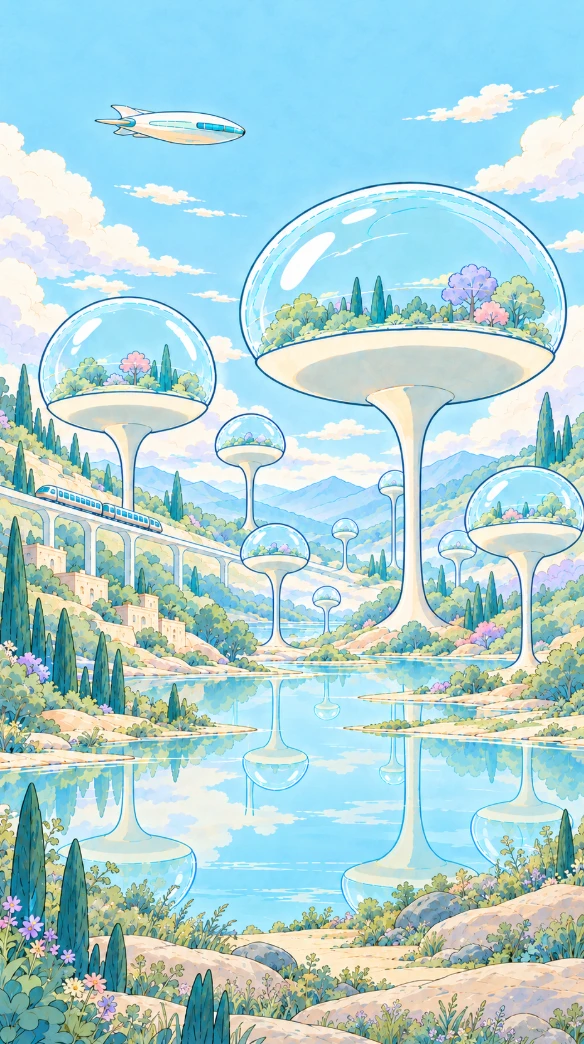
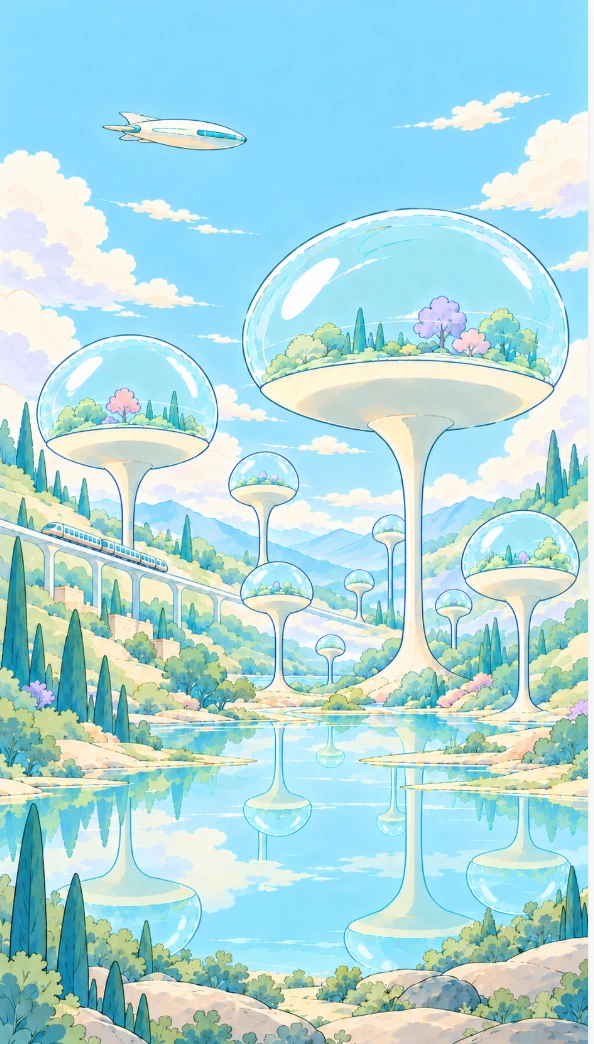
Phone hero picture: lighter touch matching the PC version

diff --git a/site/index.html b/site/index.html
@@ -34,7 +34,7 @@
 </header>
 <main id="main">
 <section class="hero">
-<div class="hero-bg"><picture><source media="(max-width: 820px)" srcset="images/hero_top_sp.webp?v=4" width="592" height="1050"><img src="images/hero_top.webp?v=168" alt="" width="2000" height="862" fetchpriority="high"></picture></div>
+<div class="hero-bg"><picture><source media="(max-width: 820px)" srcset="images/hero_top_sp.webp?v=5" width="594" height="1044"><img src="images/hero_top.webp?v=170" alt="" width="2000" height="862" fetchpriority="high"></picture></div>
 <div class="hero-intro" aria-hidden="true"><div class="hi-veil"></div><div class="hi-logo" data-capsule-intro><svg class="capsule-svg" overflow="visible" xmlns="http://www.w3.org/2000/svg" aria-label="CELLACT ロゴ" viewBox="118 55 1018 1010" role="img"><g id="head" fill="#6A6562" opacity="0"><path fill-rule="evenodd" d="M614.500 299.404C593.595 302.815 574.148 310.279 558.917 325.500C547.951 336.459 539.573 351.218 536.577 366.500C531.408 392.855 541.235 422.026 561.500 439.696C583.686 459.041 615.500 467.342 644.500 461.799C653.610 460.058 661.987 456.874 670.500 453.363C681.140 448.974 692.080 440.503 699.209 431.500C700.604 429.738 702.095 427.979 703.500 426.235C703.963 425.661 705.362 424.373 705.143 423.500C704.989 422.886 702.997 422.074 702.500 421.816C700.784 420.922 699.188 419.739 697.500 418.790C691.801 415.586 686.405 411.592 680.500 408.641C678.773 407.778 676.547 405.323 674.500 405.323C673.904 405.323 673.515 406.125 673.212 406.500C671.794 408.255 670.286 409.958 668.620 411.500C662.950 417.406 655.379 423.301 647.500 425.803C639.167 428.449 630.270 429.788 621.500 428.925C604.023 427.207 587.204 416.659 579.669 400.500C577.201 395.209 575.571 389.411 575.145 383.500C574.573 375.574 576.545 367.824 579.279 360.500C581.065 355.716 585.164 351.185 588.595 347.500C601.299 333.855 621.481 329.236 639.500 332.353C644.290 333.182 649.040 335.465 653.500 337.346C659.000 339.666 665.025 344.887 668.782 349.500C670.109 351.130 671.132 353.212 672.500 354.730C672.995 355.279 673.601 356.539 674.500 356.539C676.203 356.539 678.995 354.021 680.500 353.149C686.572 349.636 692.299 345.309 698.500 342.091C700.237 341.190 701.832 340.067 703.500 339.037C703.998 338.729 704.924 338.290 704.924 337.500C704.924 336.254 702.265 333.752 701.500 332.791C697.797 328.141 693.602 322.764 688.500 319.626C687.427 318.966 686.544 317.754 685.500 316.996C681.149 313.837 676.480 310.553 671.500 308.465C666.204 306.244 661.013 303.824 655.500 302.329C642.185 298.719 628.195 297.941 614.500 299.404Z" /></g><g id="plus" fill="#6A6562" opacity="0"><path fill-rule="evenodd" d="M606.500 480.461C605.179 481.799 606.020 486.700 605.988 488.500C605.886 494.163 606.003 499.836 605.979 505.500C605.969 507.863 606.637 511.304 605.726 513.500C605.436 514.200 603.985 513.661 603.500 513.657C601.517 513.640 599.496 513.684 597.500 513.698C590.832 513.746 584.167 513.687 577.500 513.736C575.728 513.748 572.080 512.980 570.500 513.679C568.798 514.432 569.682 519.915 569.683 521.500C569.689 528.166 569.630 534.834 569.655 541.500C569.662 543.578 568.971 546.856 570.288 548.500C570.606 548.896 572.067 548.665 572.500 548.657C574.835 548.614 577.161 548.647 579.500 548.621C585.832 548.550 592.168 548.520 598.500 548.560C600.218 548.571 603.996 548.027 605.500 548.814C606.100 549.128 605.982 550.019 605.985 550.500C605.995 552.499 606.027 554.500 606.039 556.500C606.073 562.167 605.996 567.833 605.996 573.500C605.996 575.774 605.343 579.401 606.199 581.500C606.478 582.186 607.984 582.004 608.500 582.003C610.833 581.998 613.167 582.045 615.500 582.016C622.837 581.927 630.164 582.014 637.500 581.984C639.532 581.975 644.366 582.825 645.920 581.500C647.156 573.465 645.955 564.639 646.029 556.500C646.048 554.505 646.138 552.492 646.099 550.500C646.087 549.882 645.727 549.180 646.500 548.761C646.654 548.678 648.342 548.684 648.500 548.683C650.501 548.664 652.499 548.559 654.500 548.543C661.165 548.489 667.836 548.628 674.500 548.586C676.230 548.576 682.456 549.632 683.040 547.500C683.658 545.242 683.028 541.863 683.039 539.500C683.067 533.500 683.029 527.500 683.039 521.500C683.041 519.828 683.030 518.163 683.002 516.500C682.989 515.756 683.417 514.387 682.500 513.937C681.718 513.554 680.345 513.794 679.500 513.771C677.167 513.708 674.833 513.797 672.500 513.788C667.167 513.767 661.833 513.750 656.500 513.774C653.249 513.789 649.715 514.145 646.500 513.689C646.081 513.630 646.103 512.920 646.052 512.500C645.822 510.600 646.077 508.426 646.084 506.500C646.111 499.843 646.307 493.154 646.127 486.500C646.097 485.399 646.668 481.124 645.500 480.511C645.202 480.355 642.968 480.693 642.500 480.688C640.166 480.662 637.835 480.621 635.500 480.621C629.170 480.621 622.829 480.543 616.500 480.633C613.287 480.678 609.645 481.155 606.500 480.461Z" /></g><g id="legs" fill="#6A6562" opacity="0"><path fill-rule="evenodd" d="M625.500 593.040C622.872 595.637 620.696 599.368 618.761 602.500C614.608 609.224 609.338 615.812 604.500 622.092C584.744 647.733 567.482 675.273 547.500 700.727C540.717 709.369 534.301 718.476 528.038 727.500C526.403 729.855 524.760 732.219 523.023 734.500C522.226 735.546 521.298 736.124 521.441 737.500C521.501 738.073 523.275 737.875 523.500 737.861C525.813 737.714 528.176 737.837 530.500 737.833C539.834 737.818 549.167 737.811 558.500 737.777C561.642 737.766 565.427 738.357 568.500 737.721C570.234 737.362 572.340 732.916 573.262 731.500C576.607 726.361 580.565 721.515 584.114 716.500C590.461 707.533 597.834 698.939 603.428 689.500C605.735 685.608 609.219 682.329 611.648 678.500C613.339 675.836 616.203 673.259 617.571 670.500C619.100 667.419 621.337 664.360 623.500 661.720C623.713 661.407 625.008 658.998 625.500 658.998C626.264 658.998 627.202 660.930 627.500 661.376C628.829 663.368 630.109 665.420 631.500 667.382C637.340 675.620 642.637 684.209 648.500 692.420C656.367 703.437 663.894 714.617 671.500 725.754C673.240 728.302 675.152 730.860 676.748 733.500C677.390 734.563 678.515 736.984 679.682 737.500C681.596 738.345 684.417 737.849 686.500 737.858C692.167 737.885 697.834 737.776 703.500 737.804C708.828 737.830 714.174 738.020 719.500 737.837C720.541 737.801 724.465 738.374 725.080 737.500C726.044 736.129 725.012 736.559 724.391 735.500C723.185 733.443 721.555 731.598 720.415 729.500C718.480 725.939 715.276 723.030 713.357 719.500C710.683 714.582 706.899 710.236 703.901 705.500C699.347 698.303 693.828 691.668 689.249 684.500C675.102 662.354 658.686 641.585 644.391 619.500C640.033 612.767 635.499 606.118 630.943 599.500C629.727 597.734 627.688 593.058 625.500 593.040Z" /></g><g id="wordmark" fill="#6A6562" opacity="0"><path fill-rule="evenodd" d="M187.500 932.328C180.629 933.749 173.926 935.493 167.563 938.500C162.797 940.752 158.711 944.203 154.654 947.500C133.298 964.856 132.627 1001.721 151.500 1020.906C169.523 1039.227 197.986 1043.474 221.500 1034.127C228.246 1031.445 233.858 1027.561 238.979 1022.500C239.859 1021.631 242.124 1019.797 242.330 1018.500C242.513 1017.347 240.354 1016.095 239.591 1015.500C236.534 1013.113 233.504 1010.682 230.500 1008.227C229.617 1007.506 227.609 1005.265 226.500 1005.801C225.441 1006.313 224.346 1008.109 223.500 1008.944C221.976 1010.449 220.267 1011.941 218.500 1013.147C214.833 1016.469 210.071 1017.840 205.500 1019.146C189.737 1023.649 168.938 1015.826 163.164 999.500C160.486 991.928 159.547 984.477 161.394 976.500C162.044 973.691 163.424 971.180 164.391 968.500C165.379 965.760 167.912 963.588 169.500 961.323C171.393 958.624 174.658 956.480 177.500 954.927C188.945 948.671 201.741 948.518 213.500 954.112C216.856 955.709 221.270 958.483 223.566 961.500C224.207 962.343 226.232 965.578 227.500 965.298C228.440 965.091 229.767 963.384 230.500 962.765C233.422 960.299 236.442 957.946 239.387 955.500C240.073 954.930 242.588 953.559 242.588 952.500C242.588 951.834 240.952 950.413 240.500 949.947C237.993 947.369 235.759 944.205 232.500 942.510C228.759 940.566 225.508 937.679 221.500 936.005C211.082 931.655 198.566 931.123 187.500 932.328ZM908.500 932.399C897.802 934.024 888.205 937.386 879.500 943.869C877.120 945.642 873.842 948.026 872.171 950.500C868.827 955.449 865.252 959.879 863.076 965.500C855.805 984.280 858.646 1008.301 873.500 1022.760C891.649 1040.426 922.310 1043.750 944.976 1033.500C951.046 1030.755 956.730 1027.487 961.500 1022.762C962.454 1021.817 965.331 1019.843 965.610 1018.500C965.969 1016.769 963.713 1015.909 962.500 1014.944C959.720 1012.734 956.832 1010.664 954.030 1008.500C953.055 1007.746 951.688 1006.088 950.500 1005.734C949.429 1005.415 948.504 1006.864 947.861 1007.500C945.852 1009.483 943.734 1011.286 941.500 1012.994C929.378 1022.264 908.953 1023.487 896.500 1014.067C891.829 1010.534 888.554 1006.615 885.789 1001.500C884.265 998.681 882.801 994.691 882.494 991.500C881.531 981.486 883.430 973.163 888.500 964.585C890.230 961.657 893.168 959.780 895.500 957.444C898.411 954.528 902.645 953.084 906.500 951.833C916.216 948.680 927.199 949.672 936.217 954.500C939.271 956.135 942.255 958.166 944.798 960.500C946.370 961.943 947.741 964.150 949.500 965.335C950.737 966.169 952.598 963.963 953.500 963.290C956.913 960.744 960.207 958.056 963.500 955.367C964.100 954.877 966.376 953.440 966.304 952.500C966.255 951.855 963.971 950.056 963.500 949.584C960.848 946.927 958.054 944.674 954.989 942.500C941.787 933.135 924.373 930.218 908.500 932.399ZM306.500 934.500C306.500 934.500 305.347 934.984 305.313 935.500C305.270 936.166 305.407 936.833 305.402 937.500C305.382 940.166 305.356 942.835 305.369 945.500C305.407 953.167 305.330 960.834 305.371 968.500C305.456 984.500 305.307 1000.501 305.393 1016.500C305.427 1022.743 304.806 1029.320 305.287 1035.500C305.355 1036.380 306.937 1036.447 307.500 1036.458C309.493 1036.498 311.504 1036.395 313.500 1036.395C322.167 1036.395 330.833 1036.389 339.500 1036.389C352.500 1036.389 365.500 1036.378 378.500 1036.378C381.834 1036.378 385.166 1036.408 388.500 1036.459C389.478 1036.474 391.658 1036.943 392.500 1036.239C393.381 1035.502 392.872 1033.451 392.842 1032.500C392.728 1028.836 392.931 1025.163 392.862 1021.500C392.840 1020.332 393.124 1018.496 391.500 1018.317C386.300 1017.744 380.732 1018.275 375.500 1018.307C365.501 1018.369 355.499 1018.234 345.500 1018.234C341.503 1018.234 337.500 1018.406 333.500 1018.355C332.240 1018.339 329.624 1018.795 328.500 1018.285C327.017 1017.612 327.613 1014.755 327.599 1013.500C327.543 1008.501 327.596 1003.498 327.641 998.500C327.652 997.215 327.043 994.327 328.500 993.630C329.590 993.109 332.278 993.592 333.500 993.619C336.494 993.686 339.502 993.594 342.500 993.629C356.704 993.629 371.346 994.649 385.500 993.519C386.469 993.441 386.033 990.065 386.031 989.500C386.017 986.165 385.994 982.831 386.031 979.500C386.039 978.719 386.533 976.451 385.500 976.052C384.430 975.637 382.637 975.989 381.500 975.995C378.499 976.010 375.500 976.067 372.500 976.067C362.167 976.067 351.833 976.031 341.500 976.060C338.167 976.070 334.832 976.182 331.500 976.133C330.492 976.118 328.244 976.603 327.645 975.500C327.201 974.683 327.611 972.440 327.604 971.500C327.583 968.498 327.621 965.501 327.665 962.500C327.694 960.505 327.790 958.494 327.738 956.500C327.716 955.682 327.380 954.278 327.711 953.500C328.361 951.977 330.148 952.601 331.500 952.557C335.497 952.426 339.500 952.468 343.500 952.424C354.833 952.301 366.168 952.478 377.500 952.478C380.834 952.478 384.166 952.446 387.500 952.442C388.519 952.441 390.578 952.837 391.500 952.441C393.141 951.735 392.578 949.909 392.583 948.500C392.594 945.500 392.596 942.500 392.596 939.500C392.596 938.573 393.008 936.295 392.482 935.500C391.231 933.606 388.556 934.452 386.500 934.417C381.498 934.332 376.501 934.414 371.500 934.414C349.921 934.414 328.020 933.367 306.500 934.500ZM456.500 934.445C455.420 935.461 455.967 938.157 455.964 939.500C455.954 944.500 455.900 949.499 455.909 954.500C455.943 974.167 455.920 993.833 455.920 1013.500C455.920 1019.167 455.874 1024.833 455.888 1030.500C455.891 1031.730 455.290 1035.623 456.500 1036.330C457.739 1037.053 461.068 1036.381 462.500 1036.382C467.165 1036.386 471.834 1036.409 476.500 1036.409C494.457 1036.409 512.571 1035.787 530.500 1036.504C531.308 1036.343 531.841 1036.414 532.228 1035.500C532.630 1034.553 532.221 1032.543 532.236 1031.500C532.278 1028.521 532.413 1025.474 532.270 1022.500C532.207 1021.184 532.805 1018.430 531.500 1017.718C530.648 1017.254 529.402 1017.649 528.500 1017.639C525.837 1017.608 523.166 1017.607 520.500 1017.580C510.500 1017.476 500.500 1017.568 490.500 1017.517C487.833 1017.504 485.169 1017.608 482.500 1017.581C481.250 1017.569 479.585 1017.849 478.500 1017.023C477.605 1016.342 478.195 1012.556 478.195 1011.500C478.195 1006.167 478.178 1000.833 478.178 995.500C478.178 980.500 478.197 965.500 478.178 950.500C478.173 946.833 478.174 943.167 478.184 939.500C478.188 937.882 478.657 935.827 477.704 934.500C477.264 933.887 473.306 934.351 472.500 934.331C467.190 934.203 461.814 934.382 456.500 934.445ZM591.500 934.303C589.418 935.508 590.257 938.376 590.278 940.500C590.331 945.832 590.244 951.167 590.267 956.500C590.351 976.498 590.076 996.504 590.275 1016.500C590.325 1021.501 590.057 1026.500 590.230 1031.500C590.263 1032.431 589.755 1035.341 590.500 1035.934C591.692 1036.884 593.058 1036.377 594.500 1036.384C597.500 1036.399 600.500 1036.428 603.500 1036.427C615.499 1036.423 627.501 1036.352 639.500 1036.409C645.166 1036.436 650.834 1036.449 656.500 1036.451C658.167 1036.452 659.833 1036.451 661.500 1036.430C662.500 1036.417 664.500 1036.500 664.500 1036.500C664.500 1036.500 665.657 1036.027 665.766 1035.500C665.970 1034.522 665.611 1033.506 665.709 1032.500C666.030 1029.192 665.607 1025.800 665.724 1022.500C665.768 1021.247 666.688 1017.469 664.500 1017.469C651.506 1017.469 638.500 1017.595 625.500 1017.528C622.500 1017.512 619.500 1017.569 616.500 1017.552C615.053 1017.543 613.350 1018.230 612.864 1016.500C612.372 1014.752 612.742 1012.313 612.740 1010.500C612.734 1006.167 612.776 1001.833 612.776 997.500C612.776 983.500 612.810 969.500 612.810 955.500C612.810 950.500 612.760 945.500 612.760 940.500C612.760 939.282 613.384 935.717 612.500 934.879C611.300 933.742 608.034 934.296 606.500 934.302C601.561 934.324 596.412 934.829 591.500 934.303ZM756.500 934.440C752.311 939.840 748.638 945.832 744.733 951.500C730.796 971.728 717.186 992.388 702.500 1012.081C698.118 1017.957 693.564 1024.220 689.796 1030.500C688.849 1032.078 685.415 1034.779 687.122 1036.500C687.544 1036.925 691.136 1036.491 691.833 1036.500C696.713 1036.562 701.614 1036.403 706.500 1036.431C708.166 1036.440 709.834 1036.449 711.500 1036.479C711.904 1036.486 712.319 1036.837 712.633 1036.500C716.878 1031.957 720.017 1025.971 723.500 1020.808C728.450 1013.471 734.045 1006.324 738.500 998.700C739.968 996.188 742.206 994.030 743.566 991.500C745.082 988.679 747.168 986.148 748.961 983.500C751.439 979.840 753.590 975.631 756.500 972.320C758.051 972.019 758.870 974.199 759.711 975.500C762.104 979.207 764.553 982.876 767.054 986.500C775.775 999.134 784.176 1011.922 792.944 1024.500C794.786 1027.143 796.593 1029.823 798.395 1032.500C798.982 1033.372 799.634 1035.293 800.500 1035.893C801.721 1036.739 802.204 1036.421 803.500 1036.358C809.449 1036.067 815.532 1036.457 821.500 1036.479C823.169 1036.485 824.836 1036.414 826.500 1036.428C826.856 1036.431 827.411 1036.821 827.567 1036.500C828.244 1035.105 826.849 1033.753 825.976 1032.500C823.547 1029.015 820.814 1025.681 818.500 1022.125C812.020 1012.168 804.376 1002.854 798.629 992.500C796.066 987.881 791.866 984.075 789.199 979.500C784.521 971.473 778.346 964.266 773.242 956.500C770.491 952.314 767.910 947.425 764.500 943.776C762.488 941.623 761.446 938.562 759.500 936.327C758.474 935.149 758.116 933.625 756.500 934.440ZM1017.500 934.360C1015.477 934.836 1016.150 936.786 1016.150 938.500C1016.152 941.835 1016.071 945.166 1016.109 948.500C1016.119 949.380 1015.621 951.833 1016.500 952.429C1016.672 952.545 1018.262 952.499 1018.500 952.504C1020.501 952.553 1022.499 952.535 1024.500 952.543C1031.500 952.570 1038.501 952.731 1045.500 952.564C1047.518 952.516 1049.489 952.583 1051.500 952.620C1052.538 952.639 1053.652 952.088 1053.957 953.500C1054.343 955.289 1053.903 957.649 1053.915 959.500C1053.944 964.167 1053.872 968.833 1053.872 973.500C1053.872 987.833 1053.890 1002.167 1053.890 1016.500C1053.890 1020.834 1053.833 1025.166 1053.833 1029.500C1053.833 1031.214 1053.393 1033.882 1053.893 1035.500C1054.393 1037.122 1057.207 1036.455 1058.500 1036.469C1062.823 1036.514 1067.182 1036.224 1071.500 1036.429C1072.802 1036.491 1075.556 1037.212 1076.056 1035.500C1076.951 1032.434 1076.053 1027.721 1076.075 1024.500C1076.133 1016.168 1076.100 1007.833 1076.071 999.500C1076.071 987.500 1076.005 975.499 1076.075 963.500C1076.090 960.833 1076.120 958.165 1076.123 955.500C1076.124 954.843 1075.733 953.133 1076.500 952.684C1076.599 952.626 1078.402 952.718 1078.500 952.716C1080.498 952.685 1082.500 952.576 1084.500 952.539C1091.503 952.409 1098.497 952.567 1105.500 952.567C1107.832 952.567 1110.169 952.519 1112.500 952.567C1113.622 952.590 1114.805 952.793 1115.361 951.500C1115.746 950.606 1115.310 948.502 1115.323 947.500C1115.362 944.501 1115.338 941.500 1115.362 938.500C1115.369 937.743 1115.923 934.470 1114.500 934.447C1094.867 934.119 1075.155 934.402 1055.500 934.402C1042.873 934.402 1030.104 933.878 1017.500 934.360Z" /></g><defs><clipPath id="clip_top"><rect x="0" y="0" width="1254" height="533.5" /></clipPath><clipPath id="clip_bottom"><rect x="0" y="533.5" width="1254" height="800" /></clipPath></defs><g id="shell_top" transform="translate(0 -66)" opacity="0"><g clip-path="url(#clip_top)"><g fill="#6A6562"><path fill-rule="evenodd" d="M623.500 153.449C606.954 162.665 591.012 173.033 574.500 182.304C568.395 185.732 562.643 189.802 556.500 193.127C547.242 198.137 538.777 204.347 529.500 209.300C526.052 211.141 522.999 213.936 519.500 215.633C509.793 220.340 500.942 227.023 491.500 232.253C476.906 240.337 463.152 250.124 448.500 258.198C445.415 259.898 442.576 262.204 439.500 263.885C423.505 272.627 408.291 282.855 392.500 291.885C389.418 293.648 386.607 295.950 383.500 297.657C369.884 305.138 357.136 314.360 343.500 321.932C336.495 325.822 329.244 329.902 322.669 334.500C318.628 337.327 313.827 340.325 309.394 342.500C306.543 343.899 303.930 345.372 302.798 348.500C301.783 351.305 302.322 354.556 302.322 357.500C302.322 362.833 302.324 368.167 302.324 373.500C302.324 392.833 302.404 412.169 302.404 431.500C302.404 496.165 302.372 560.833 302.372 625.500C302.372 646.833 302.362 668.166 302.362 689.500C302.362 694.833 302.353 700.167 302.381 705.500C302.398 708.804 302.023 711.647 303.909 714.500C305.067 716.251 307.710 717.302 309.500 718.238C312.279 719.690 314.774 721.740 317.500 723.312C328.962 729.923 339.649 738.333 351.500 744.271C356.721 746.887 361.415 750.976 366.500 753.868C380.130 761.621 393.081 770.601 406.500 778.750C423.313 788.959 439.778 799.682 456.500 810.021C466.812 816.397 477.323 822.593 487.500 829.183C497.072 835.381 506.669 841.466 516.500 847.239C525.297 852.404 533.604 858.416 542.500 863.407C558.889 872.602 573.965 884.230 590.500 893.277C598.712 897.769 606.388 903.443 614.500 908.170C619.782 911.249 623.987 914.424 630.500 912.994C633.119 912.200 635.174 910.547 637.500 909.146C641.483 906.746 645.631 904.524 649.500 901.951C651.645 900.524 654.110 898.454 656.500 897.497C658.301 896.775 659.794 895.345 661.500 894.398C666.960 891.369 671.970 887.329 677.500 884.471C687.430 879.338 697.215 872.830 706.500 866.563C715.830 860.265 725.801 854.567 735.500 848.771C745.283 842.924 754.558 836.238 764.500 830.633C774.433 825.032 783.495 817.769 793.500 812.290C802.742 807.228 811.186 800.691 820.500 795.758C822.258 794.827 823.734 793.275 825.500 792.363C831.070 789.488 836.022 785.439 841.500 782.474C851.137 777.258 860.205 770.848 869.500 765.115C882.159 757.307 894.573 748.873 907.500 741.551C914.575 737.544 921.128 731.739 928.500 728.341C933.096 726.222 937.039 722.689 941.500 720.288C944.555 718.644 949.072 716.762 950.731 713.500C952.135 710.738 951.618 707.537 951.633 704.500C951.663 698.837 951.662 693.163 951.602 687.500C951.377 666.507 951.633 645.494 951.633 624.500C951.633 559.499 951.653 494.500 951.653 429.500C951.653 410.835 951.653 392.167 951.653 373.500C951.653 368.167 951.617 362.833 951.643 357.500C951.660 354.061 951.991 350.739 950.629 347.500C949.727 345.353 947.740 344.798 946.129 343.500C943.868 341.680 941.007 340.436 938.500 338.897C931.542 334.626 924.625 330.071 917.500 326.115C913.193 323.724 908.470 321.193 904.500 318.368C891.849 309.366 877.619 302.508 864.500 294.233C859.238 290.915 854.009 287.389 848.500 284.500C845.756 283.061 843.307 280.986 840.500 279.737C837.619 278.454 834.797 276.148 832.072 274.500C825.597 270.583 819.187 266.335 812.500 262.809C798.791 255.582 786.263 245.916 772.500 238.762C768.374 236.617 764.803 233.440 760.500 231.633C757.634 230.430 755.337 227.670 752.500 226.378C746.507 223.650 741.171 219.379 735.500 216.106C726.820 211.096 718.337 205.467 709.500 200.768C705.385 198.579 701.692 195.636 697.500 193.554C691.706 190.677 686.515 186.265 680.593 183.500C674.322 180.572 668.643 175.890 662.500 172.650C655.030 168.710 648.170 163.526 640.715 159.500C637.701 157.872 634.755 155.140 631.500 154.032C628.844 153.127 626.226 153.466 623.500 153.449ZM626.500 198.064C628.991 198.202 631.427 200.569 633.500 201.830C636.801 203.838 640.099 205.913 643.500 207.761C659.269 216.329 673.932 226.842 689.500 235.754C699.959 241.742 709.914 248.908 720.500 254.629C734.185 262.025 746.979 271.024 760.500 278.765C788.881 295.016 816.290 313.013 844.500 329.504C855.932 336.188 867.027 343.477 878.500 350.109C883.847 353.201 889.003 356.988 894.500 359.805C898.329 361.767 902.283 364.097 905.857 366.500C906.531 366.954 909.267 368.077 909.500 368.724C909.958 369.996 909.739 371.186 909.778 372.500C909.888 376.163 909.728 379.831 909.767 383.500C909.899 395.831 909.823 408.168 909.823 420.500C909.823 461.485 909.195 502.522 909.810 543.500C910.370 580.823 909.522 618.171 909.810 655.500C909.882 664.834 909.774 674.166 909.846 683.500C909.864 685.832 909.959 688.203 909.788 690.500C909.751 691.001 909.940 692.097 909.418 692.500C903.139 697.355 895.400 701.389 888.500 705.234C874.801 712.866 862.373 722.827 848.500 730.176C843.286 732.939 838.759 737.013 833.500 739.719C827.953 742.572 822.830 746.442 817.500 749.712C804.768 757.522 792.401 765.960 779.500 773.532C774.259 776.609 768.758 779.839 763.900 783.500C756.966 788.725 748.702 792.299 741.700 797.500C736.737 801.187 730.596 803.555 725.833 807.500C724.062 808.967 721.502 810.102 719.500 811.301C714.788 814.122 710.143 817.128 705.500 820.051C694.197 827.167 683.001 834.377 671.500 841.193C668.128 843.192 664.983 846.058 661.500 847.728C655.167 850.766 649.574 855.379 643.500 858.900C638.121 862.018 632.463 865.341 627.500 869.039C624.645 869.100 620.896 865.530 618.500 864.014C612.906 860.472 607.334 856.810 601.500 853.639C599.762 852.695 598.267 851.183 596.500 850.270C586.384 845.042 577.309 837.929 567.500 832.195C549.544 821.698 531.926 810.458 514.500 799.098C503.316 791.806 491.913 784.768 480.500 777.797C472.747 773.061 465.324 767.732 457.500 763.194C450.091 758.896 442.409 754.341 435.357 749.500C428.321 744.670 420.992 739.784 413.500 735.689C409.336 733.413 405.645 730.265 401.500 727.949C392.433 722.885 383.878 716.814 374.932 711.500C371.095 709.221 367.503 706.173 363.500 704.208C359.156 702.077 355.043 699.169 350.956 696.500C348.870 695.138 346.536 694.123 344.630 692.500C343.772 691.769 344.289 689.503 344.273 688.500C344.199 683.835 344.230 679.166 344.230 674.500C344.230 655.833 344.236 637.167 344.236 618.500C344.236 558.500 344.202 498.500 344.202 438.500C344.202 421.833 344.175 405.166 344.175 388.500C344.175 383.835 344.156 379.163 344.193 374.500C344.205 372.924 343.740 370.454 344.500 369.039C345.420 367.326 348.409 366.524 349.989 365.500C355.070 362.206 360.283 359.083 365.500 356.025C383.965 345.201 402.415 334.218 420.500 322.774C443.219 308.397 466.930 295.705 489.500 280.993C496.615 276.355 504.051 271.872 511.500 267.715C514.891 265.822 518.024 263.455 521.500 261.731C526.723 259.141 531.206 255.079 536.500 252.622C539.249 251.346 541.922 249.244 544.500 247.626C551.055 243.514 557.710 239.120 564.500 235.459C569.603 232.708 574.296 228.863 579.500 226.335C585.149 223.591 590.108 219.476 595.640 216.500C606.168 210.837 616.110 203.898 626.500 198.064Z" /></g></g></g><g id="shell_bottom" transform="translate(0 66)" opacity="0"><g clip-path="url(#clip_bottom)"><g fill="#6A6562"><path fill-rule="evenodd" d="M623.500 153.449C606.954 162.665 591.012 173.033 574.500 182.304C568.395 185.732 562.643 189.802 556.500 193.127C547.242 198.137 538.777 204.347 529.500 209.300C526.052 211.141 522.999 213.936 519.500 215.633C509.793 220.340 500.942 227.023 491.500 232.253C476.906 240.337 463.152 250.124 448.500 258.198C445.415 259.898 442.576 262.204 439.500 263.885C423.505 272.627 408.291 282.855 392.500 291.885C389.418 293.648 386.607 295.950 383.500 297.657C369.884 305.138 357.136 314.360 343.500 321.932C336.495 325.822 329.244 329.902 322.669 334.500C318.628 337.327 313.827 340.325 309.394 342.500C306.543 343.899 303.930 345.372 302.798 348.500C301.783 351.305 302.322 354.556 302.322 357.500C302.322 362.833 302.324 368.167 302.324 373.500C302.324 392.833 302.404 412.169 302.404 431.500C302.404 496.165 302.372 560.833 302.372 625.500C302.372 646.833 302.362 668.166 302.362 689.500C302.362 694.833 302.353 700.167 302.381 705.500C302.398 708.804 302.023 711.647 303.909 714.500C305.067 716.251 307.710 717.302 309.500 718.238C312.279 719.690 314.774 721.740 317.500 723.312C328.962 729.923 339.649 738.333 351.500 744.271C356.721 746.887 361.415 750.976 366.500 753.868C380.130 761.621 393.081 770.601 406.500 778.750C423.313 788.959 439.778 799.682 456.500 810.021C466.812 816.397 477.323 822.593 487.500 829.183C497.072 835.381 506.669 841.466 516.500 847.239C525.297 852.404 533.604 858.416 542.500 863.407C558.889 872.602 573.965 884.230 590.500 893.277C598.712 897.769 606.388 903.443 614.500 908.170C619.782 911.249 623.987 914.424 630.500 912.994C633.119 912.200 635.174 910.547 637.500 909.146C641.483 906.746 645.631 904.524 649.500 901.951C651.645 900.524 654.110 898.454 656.500 897.497C658.301 896.775 659.794 895.345 661.500 894.398C666.960 891.369 671.970 887.329 677.500 884.471C687.430 879.338 697.215 872.830 706.500 866.563C715.830 860.265 725.801 854.567 735.500 848.771C745.283 842.924 754.558 836.238 764.500 830.633C774.433 825.032 783.495 817.769 793.500 812.290C802.742 807.228 811.186 800.691 820.500 795.758C822.258 794.827 823.734 793.275 825.500 792.363C831.070 789.488 836.022 785.439 841.500 782.474C851.137 777.258 860.205 770.848 869.500 765.115C882.159 757.307 894.573 748.873 907.500 741.551C914.575 737.544 921.128 731.739 928.500 728.341C933.096 726.222 937.039 722.689 941.500 720.288C944.555 718.644 949.072 716.762 950.731 713.500C952.135 710.738 951.618 707.537 951.633 704.500C951.663 698.837 951.662 693.163 951.602 687.500C951.377 666.507 951.633 645.494 951.633 624.500C951.633 559.499 951.653 494.500 951.653 429.500C951.653 410.835 951.653 392.167 951.653 373.500C951.653 368.167 951.617 362.833 951.643 357.500C951.660 354.061 951.991 350.739 950.629 347.500C949.727 345.353 947.740 344.798 946.129 343.500C943.868 341.680 941.007 340.436 938.500 338.897C931.542 334.626 924.625 330.071 917.500 326.115C913.193 323.724 908.470 321.193 904.500 318.368C891.849 309.366 877.619 302.508 864.500 294.233C859.238 290.915 854.009 287.389 848.500 284.500C845.756 283.061 843.307 280.986 840.500 279.737C837.619 278.454 834.797 276.148 832.072 274.500C825.597 270.583 819.187 266.335 812.500 262.809C798.791 255.582 786.263 245.916 772.500 238.762C768.374 236.617 764.803 233.440 760.500 231.633C757.634 230.430 755.337 227.670 752.500 226.378C746.507 223.650 741.171 219.379 735.500 216.106C726.820 211.096 718.337 205.467 709.500 200.768C705.385 198.579 701.692 195.636 697.500 193.554C691.706 190.677 686.515 186.265 680.593 183.500C674.322 180.572 668.643 175.890 662.500 172.650C655.030 168.710 648.170 163.526 640.715 159.500C637.701 157.872 634.755 155.140 631.500 154.032C628.844 153.127 626.226 153.466 623.500 153.449ZM626.500 198.064C628.991 198.202 631.427 200.569 633.500 201.830C636.801 203.838 640.099 205.913 643.500 207.761C659.269 216.329 673.932 226.842 689.500 235.754C699.959 241.742 709.914 248.908 720.500 254.629C734.185 262.025 746.979 271.024 760.500 278.765C788.881 295.016 816.290 313.013 844.500 329.504C855.932 336.188 867.027 343.477 878.500 350.109C883.847 353.201 889.003 356.988 894.500 359.805C898.329 361.767 902.283 364.097 905.857 366.500C906.531 366.954 909.267 368.077 909.500 368.724C909.958 369.996 909.739 371.186 909.778 372.500C909.888 376.163 909.728 379.831 909.767 383.500C909.899 395.831 909.823 408.168 909.823 420.500C909.823 461.485 909.195 502.522 909.810 543.500C910.370 580.823 909.522 618.171 909.810 655.500C909.882 664.834 909.774 674.166 909.846 683.500C909.864 685.832 909.959 688.203 909.788 690.500C909.751 691.001 909.940 692.097 909.418 692.500C903.139 697.355 895.400 701.389 888.500 705.234C874.801 712.866 862.373 722.827 848.500 730.176C843.286 732.939 838.759 737.013 833.500 739.719C827.953 742.572 822.830 746.442 817.500 749.712C804.768 757.522 792.401 765.960 779.500 773.532C774.259 776.609 768.758 779.839 763.900 783.500C756.966 788.725 748.702 792.299 741.700 797.500C736.737 801.187 730.596 803.555 725.833 807.500C724.062 808.967 721.502 810.102 719.500 811.301C714.788 814.122 710.143 817.128 705.500 820.051C694.197 827.167 683.001 834.377 671.500 841.193C668.128 843.192 664.983 846.058 661.500 847.728C655.167 850.766 649.574 855.379 643.500 858.900C638.121 862.018 632.463 865.341 627.500 869.039C624.645 869.100 620.896 865.530 618.500 864.014C612.906 860.472 607.334 856.810 601.500 853.639C599.762 852.695 598.267 851.183 596.500 850.270C586.384 845.042 577.309 837.929 567.500 832.195C549.544 821.698 531.926 810.458 514.500 799.098C503.316 791.806 491.913 784.768 480.500 777.797C472.747 773.061 465.324 767.732 457.500 763.194C450.091 758.896 442.409 754.341 435.357 749.500C428.321 744.670 420.992 739.784 413.500 735.689C409.336 733.413 405.645 730.265 401.500 727.949C392.433 722.885 383.878 716.814 374.932 711.500C371.095 709.221 367.503 706.173 363.500 704.208C359.156 702.077 355.043 699.169 350.956 696.500C348.870 695.138 346.536 694.123 344.630 692.500C343.772 691.769 344.289 689.503 344.273 688.500C344.199 683.835 344.230 679.166 344.230 674.500C344.230 655.833 344.236 637.167 344.236 618.500C344.236 558.500 344.202 498.500 344.202 438.500C344.202 421.833 344.175 405.166 344.175 388.500C344.175 383.835 344.156 379.163 344.193 374.500C344.205 372.924 343.740 370.454 344.500 369.039C345.420 367.326 348.409 366.524 349.989 365.500C355.070 362.206 360.283 359.083 365.500 356.025C383.965 345.201 402.415 334.218 420.500 322.774C443.219 308.397 466.930 295.705 489.500 280.993C496.615 276.355 504.051 271.872 511.500 267.715C514.891 265.822 518.024 263.455 521.500 261.731C526.723 259.141 531.206 255.079 536.500 252.622C539.249 251.346 541.922 249.244 544.500 247.626C551.055 243.514 557.710 239.120 564.500 235.459C569.603 232.708 574.296 228.863 579.500 226.335C585.149 223.591 590.108 219.476 595.640 216.500C606.168 210.837 616.110 203.898 626.500 198.064Z" /></g></g></g><g id="shell_exact" fill="#6A6562" opacity="0"><path fill-rule="evenodd" d="M623.500 153.449C606.954 162.665 591.012 173.033 574.500 182.304C568.395 185.732 562.643 189.802 556.500 193.127C547.242 198.137 538.777 204.347 529.500 209.300C526.052 211.141 522.999 213.936 519.500 215.633C509.793 220.340 500.942 227.023 491.500 232.253C476.906 240.337 463.152 250.124 448.500 258.198C445.415 259.898 442.576 262.204 439.500 263.885C423.505 272.627 408.291 282.855 392.500 291.885C389.418 293.648 386.607 295.950 383.500 297.657C369.884 305.138 357.136 314.360 343.500 321.932C336.495 325.822 329.244 329.902 322.669 334.500C318.628 337.327 313.827 340.325 309.394 342.500C306.543 343.899 303.930 345.372 302.798 348.500C301.783 351.305 302.322 354.556 302.322 357.500C302.322 362.833 302.324 368.167 302.324 373.500C302.324 392.833 302.404 412.169 302.404 431.500C302.404 496.165 302.372 560.833 302.372 625.500C302.372 646.833 302.362 668.166 302.362 689.500C302.362 694.833 302.353 700.167 302.381 705.500C302.398 708.804 302.023 711.647 303.909 714.500C305.067 716.251 307.710 717.302 309.500 718.238C312.279 719.690 314.774 721.740 317.500 723.312C328.962 729.923 339.649 738.333 351.500 744.271C356.721 746.887 361.415 750.976 366.500 753.868C380.130 761.621 393.081 770.601 406.500 778.750C423.313 788.959 439.778 799.682 456.500 810.021C466.812 816.397 477.323 822.593 487.500 829.183C497.072 835.381 506.669 841.466 516.500 847.239C525.297 852.404 533.604 858.416 542.500 863.407C558.889 872.602 573.965 884.230 590.500 893.277C598.712 897.769 606.388 903.443 614.500 908.170C619.782 911.249 623.987 914.424 630.500 912.994C633.119 912.200 635.174 910.547 637.500 909.146C641.483 906.746 645.631 904.524 649.500 901.951C651.645 900.524 654.110 898.454 656.500 897.497C658.301 896.775 659.794 895.345 661.500 894.398C666.960 891.369 671.970 887.329 677.500 884.471C687.430 879.338 697.215 872.830 706.500 866.563C715.830 860.265 725.801 854.567 735.500 848.771C745.283 842.924 754.558 836.238 764.500 830.633C774.433 825.032 783.495 817.769 793.500 812.290C802.742 807.228 811.186 800.691 820.500 795.758C822.258 794.827 823.734 793.275 825.500 792.363C831.070 789.488 836.022 785.439 841.500 782.474C851.137 777.258 860.205 770.848 869.500 765.115C882.159 757.307 894.573 748.873 907.500 741.551C914.575 737.544 921.128 731.739 928.500 728.341C933.096 726.222 937.039 722.689 941.500 720.288C944.555 718.644 949.072 716.762 950.731 713.500C952.135 710.738 951.618 707.537 951.633 704.500C951.663 698.837 951.662 693.163 951.602 687.500C951.377 666.507 951.633 645.494 951.633 624.500C951.633 559.499 951.653 494.500 951.653 429.500C951.653 410.835 951.653 392.167 951.653 373.500C951.653 368.167 951.617 362.833 951.643 357.500C951.660 354.061 951.991 350.739 950.629 347.500C949.727 345.353 947.740 344.798 946.129 343.500C943.868 341.680 941.007 340.436 938.500 338.897C931.542 334.626 924.625 330.071 917.500 326.115C913.193 323.724 908.470 321.193 904.500 318.368C891.849 309.366 877.619 302.508 864.500 294.233C859.238 290.915 854.009 287.389 848.500 284.500C845.756 283.061 843.307 280.986 840.500 279.737C837.619 278.454 834.797 276.148 832.072 274.500C825.597 270.583 819.187 266.335 812.500 262.809C798.791 255.582 786.263 245.916 772.500 238.762C768.374 236.617 764.803 233.440 760.500 231.633C757.634 230.430 755.337 227.670 752.500 226.378C746.507 223.650 741.171 219.379 735.500 216.106C726.820 211.096 718.337 205.467 709.500 200.768C705.385 198.579 701.692 195.636 697.500 193.554C691.706 190.677 686.515 186.265 680.593 183.500C674.322 180.572 668.643 175.890 662.500 172.650C655.030 168.710 648.170 163.526 640.715 159.500C637.701 157.872 634.755 155.140 631.500 154.032C628.844 153.127 626.226 153.466 623.500 153.449ZM626.500 198.064C628.991 198.202 631.427 200.569 633.500 201.830C636.801 203.838 640.099 205.913 643.500 207.761C659.269 216.329 673.932 226.842 689.500 235.754C699.959 241.742 709.914 248.908 720.500 254.629C734.185 262.025 746.979 271.024 760.500 278.765C788.881 295.016 816.290 313.013 844.500 329.504C855.932 336.188 867.027 343.477 878.500 350.109C883.847 353.201 889.003 356.988 894.500 359.805C898.329 361.767 902.283 364.097 905.857 366.500C906.531 366.954 909.267 368.077 909.500 368.724C909.958 369.996 909.739 371.186 909.778 372.500C909.888 376.163 909.728 379.831 909.767 383.500C909.899 395.831 909.823 408.168 909.823 420.500C909.823 461.485 909.195 502.522 909.810 543.500C910.370 580.823 909.522 618.171 909.810 655.500C909.882 664.834 909.774 674.166 909.846 683.500C909.864 685.832 909.959 688.203 909.788 690.500C909.751 691.001 909.940 692.097 909.418 692.500C903.139 697.355 895.400 701.389 888.500 705.234C874.801 712.866 862.373 722.827 848.500 730.176C843.286 732.939 838.759 737.013 833.500 739.719C827.953 742.572 822.830 746.442 817.500 749.712C804.768 757.522 792.401 765.960 779.500 773.532C774.259 776.609 768.758 779.839 763.900 783.500C756.966 788.725 748.702 792.299 741.700 797.500C736.737 801.187 730.596 803.555 725.833 807.500C724.062 808.967 721.502 810.102 719.500 811.301C714.788 814.122 710.143 817.128 705.500 820.051C694.197 827.167 683.001 834.377 671.500 841.193C668.128 843.192 664.983 846.058 661.500 847.728C655.167 850.766 649.574 855.379 643.500 858.900C638.121 862.018 632.463 865.341 627.500 869.039C624.645 869.100 620.896 865.530 618.500 864.014C612.906 860.472 607.334 856.810 601.500 853.639C599.762 852.695 598.267 851.183 596.500 850.270C586.384 845.042 577.309 837.929 567.500 832.195C549.544 821.698 531.926 810.458 514.500 799.098C503.316 791.806 491.913 784.768 480.500 777.797C472.747 773.061 465.324 767.732 457.500 763.194C450.091 758.896 442.409 754.341 435.357 749.500C428.321 744.670 420.992 739.784 413.500 735.689C409.336 733.413 405.645 730.265 401.500 727.949C392.433 722.885 383.878 716.814 374.932 711.500C371.095 709.221 367.503 706.173 363.500 704.208C359.156 702.077 355.043 699.169 350.956 696.500C348.870 695.138 346.536 694.123 344.630 692.500C343.772 691.769 344.289 689.503 344.273 688.500C344.199 683.835 344.230 679.166 344.230 674.500C344.230 655.833 344.236 637.167 344.236 618.500C344.236 558.500 344.202 498.500 344.202 438.500C344.202 421.833 344.175 405.166 344.175 388.500C344.175 383.835 344.156 379.163 344.193 374.500C344.205 372.924 343.740 370.454 344.500 369.039C345.420 367.326 348.409 366.524 349.989 365.500C355.070 362.206 360.283 359.083 365.500 356.025C383.965 345.201 402.415 334.218 420.500 322.774C443.219 308.397 466.930 295.705 489.500 280.993C496.615 276.355 504.051 271.872 511.500 267.715C514.891 265.822 518.024 263.455 521.500 261.731C526.723 259.141 531.206 255.079 536.500 252.622C539.249 251.346 541.922 249.244 544.500 247.626C551.055 243.514 557.710 239.120 564.500 235.459C569.603 232.708 574.296 228.863 579.500 226.335C585.149 223.591 590.108 219.476 595.640 216.500C606.168 210.837 616.110 203.898 626.500 198.064Z" /></g></svg></div><button type="button" class="hi-skip">スキップ</button></div>
 <div class="container hero-inner">
 <p class="hero-eyebrow">CELLACT / REGENERATIVE MEDICINE</p>

diff --git a/tools/build.py b/tools/build.py
@@ -201,7 +201,7 @@ def build_index():
     s += header('index.html')
     s += f'''<main id="main">
 <section class="hero">
-<div class="hero-bg"><picture><source media="(max-width: 820px)" srcset="images/hero_top_sp.webp?v=4" width="592" height="1050"><img src="images/hero_top.webp?v=168" alt="" width="2000" height="862" fetchpriority="high"></picture></div>
+<div class="hero-bg"><picture><source media="(max-width: 820px)" srcset="images/hero_top_sp.webp?v=5" width="594" height="1044"><img src="images/hero_top.webp?v=170" alt="" width="2000" height="862" fetchpriority="high"></picture></div>
 <div class="hero-intro" aria-hidden="true"><div class="hi-veil"></div><div class="hi-logo" data-capsule-intro>{CAPSULE_SVG}</div><button type="button" class="hi-skip">スキップ</button></div>
 <div class="container hero-inner">
 <p class="hero-eyebrow">CELLACT / REGENERATIVE MEDICINE</p>
